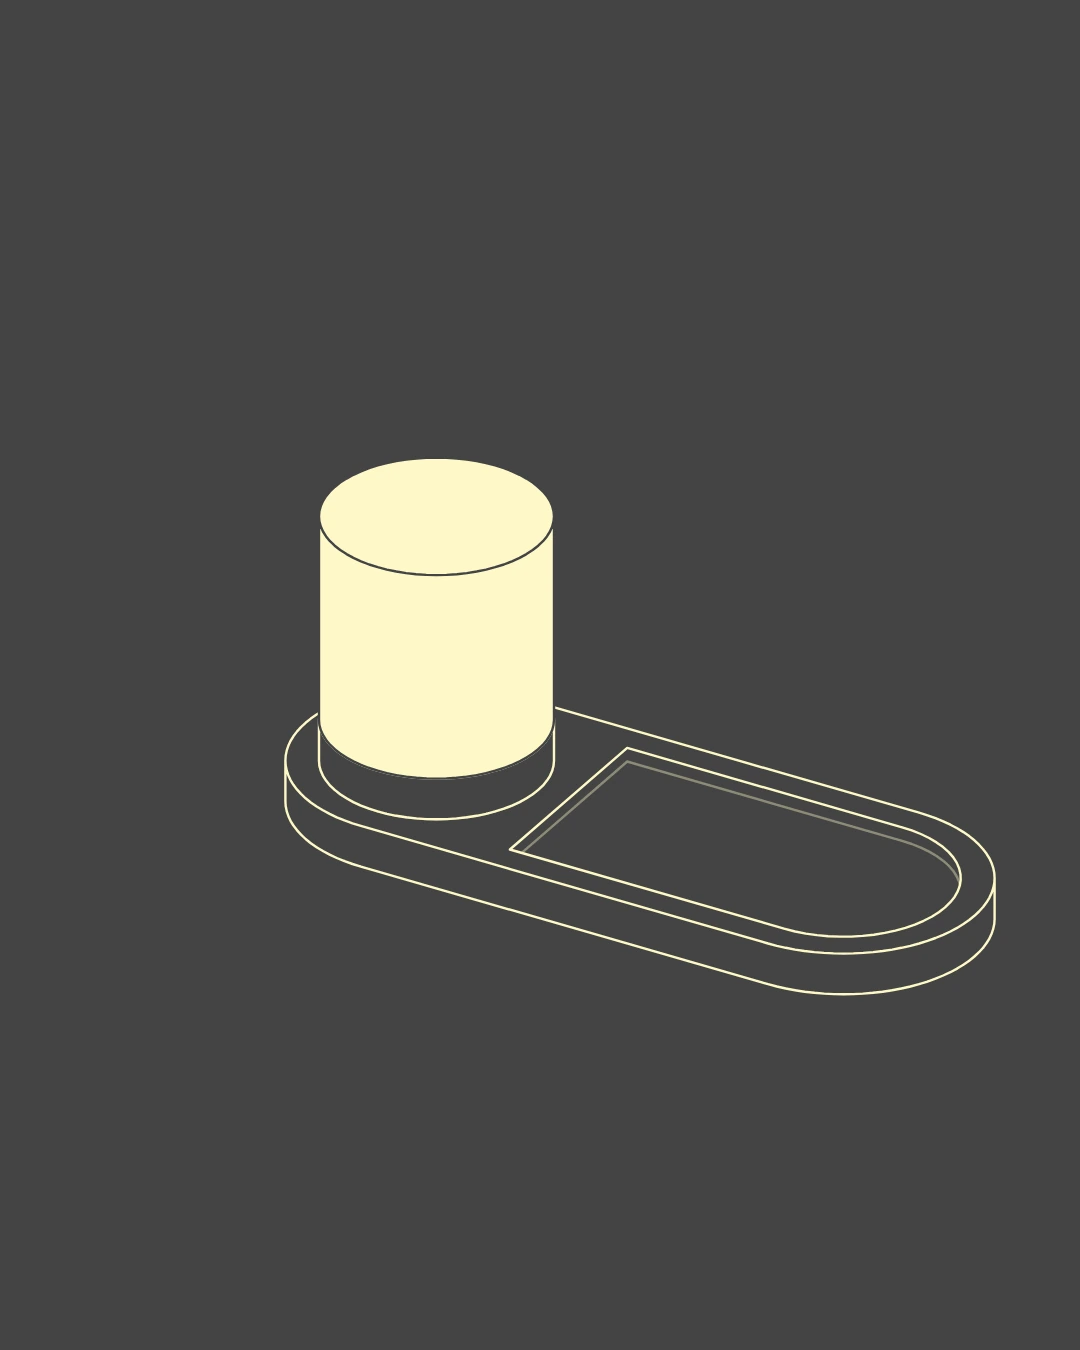
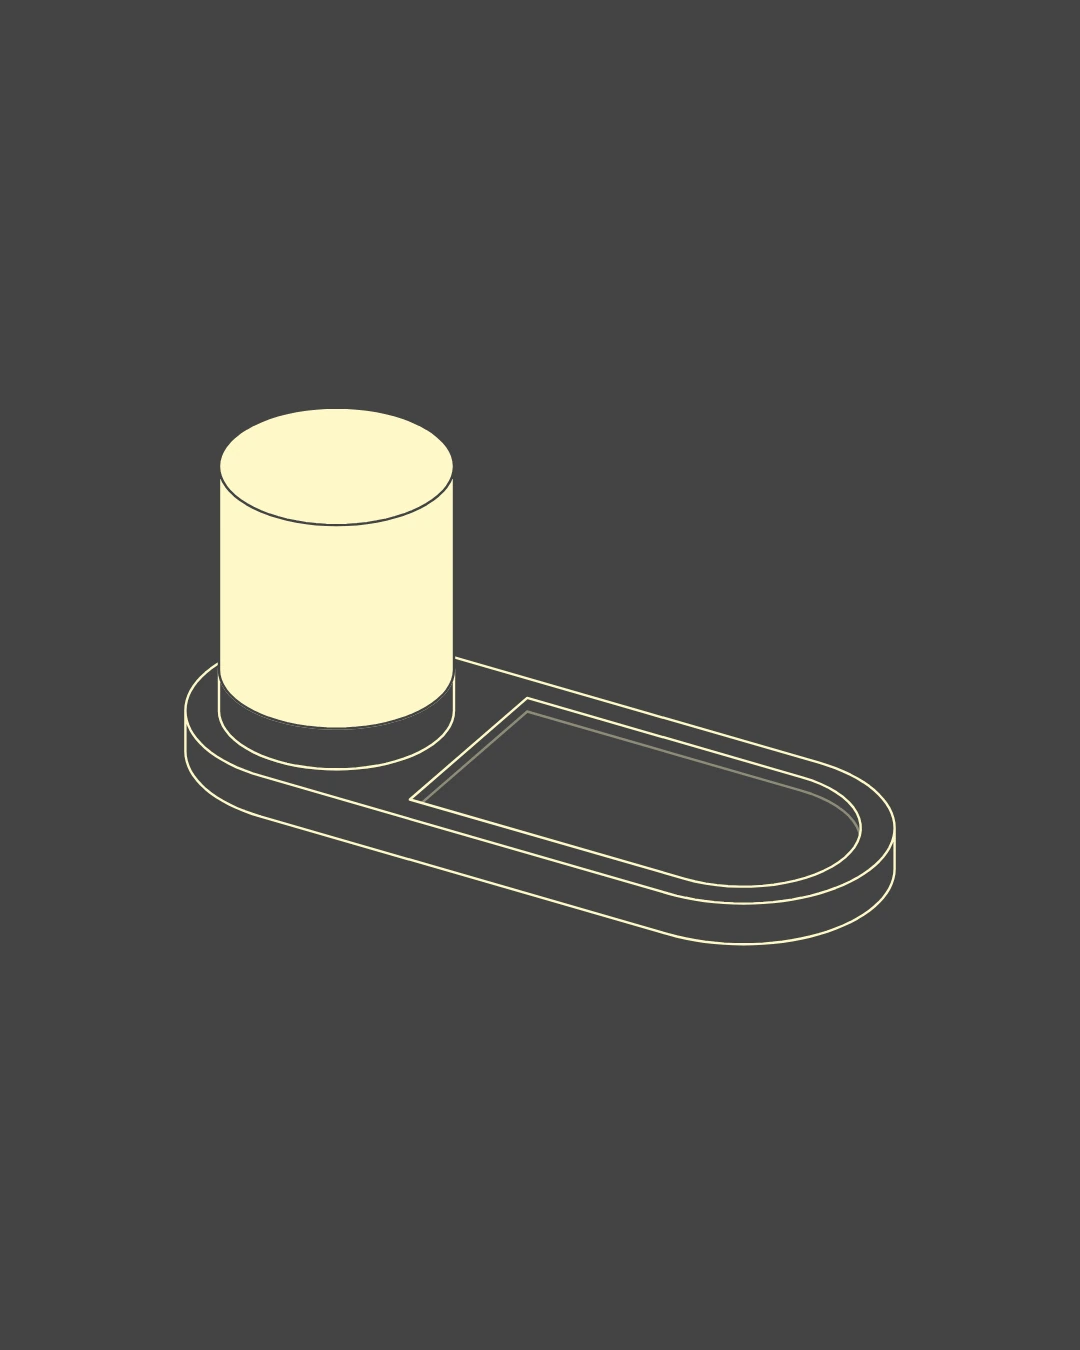
site: centraliza o desenho da luminária na página de compra
Claude-Session: https://claude.ai/code/session_01LK5qfcfznUHsQY5enG4SGN

Changed region(s): [[0.1528, 0.28, 0.9472, 0.7156]]

diff --git a/site/app/globals.css b/site/app/globals.css
@@ -111,5 +111,5 @@ body {
 .buy-done{display:flex;flex-direction:column;gap:14px;align-items:flex-start;padding:24px;border-radius:22px;background:rgba(253,248,199,.08)}
 .buy-done h2{margin:0;font-size:26px;font-weight:500;letter-spacing:0;text-transform:none;opacity:1}
 .buy-done p{margin:0;font-size:16px;line-height:1.45}
-@media (max-width:860px){.buy-grid{grid-template-columns:minmax(0,1fr);gap:24px}.buy-photo{position:relative;top:0;aspect-ratio:1/1}.buy-photo img{object-position:50% 58%}.buy-pay{grid-template-columns:1fr}}
+@media (max-width:860px){.buy-grid{grid-template-columns:minmax(0,1fr);gap:24px}.buy-photo{position:relative;top:0;aspect-ratio:1/1}.buy-photo img{object-position:50% 50%}.buy-pay{grid-template-columns:1fr}}
 @media (prefers-reduced-motion:reduce){.buy-cta,.buy-btn,.buy-photo-on{transition:none}}
